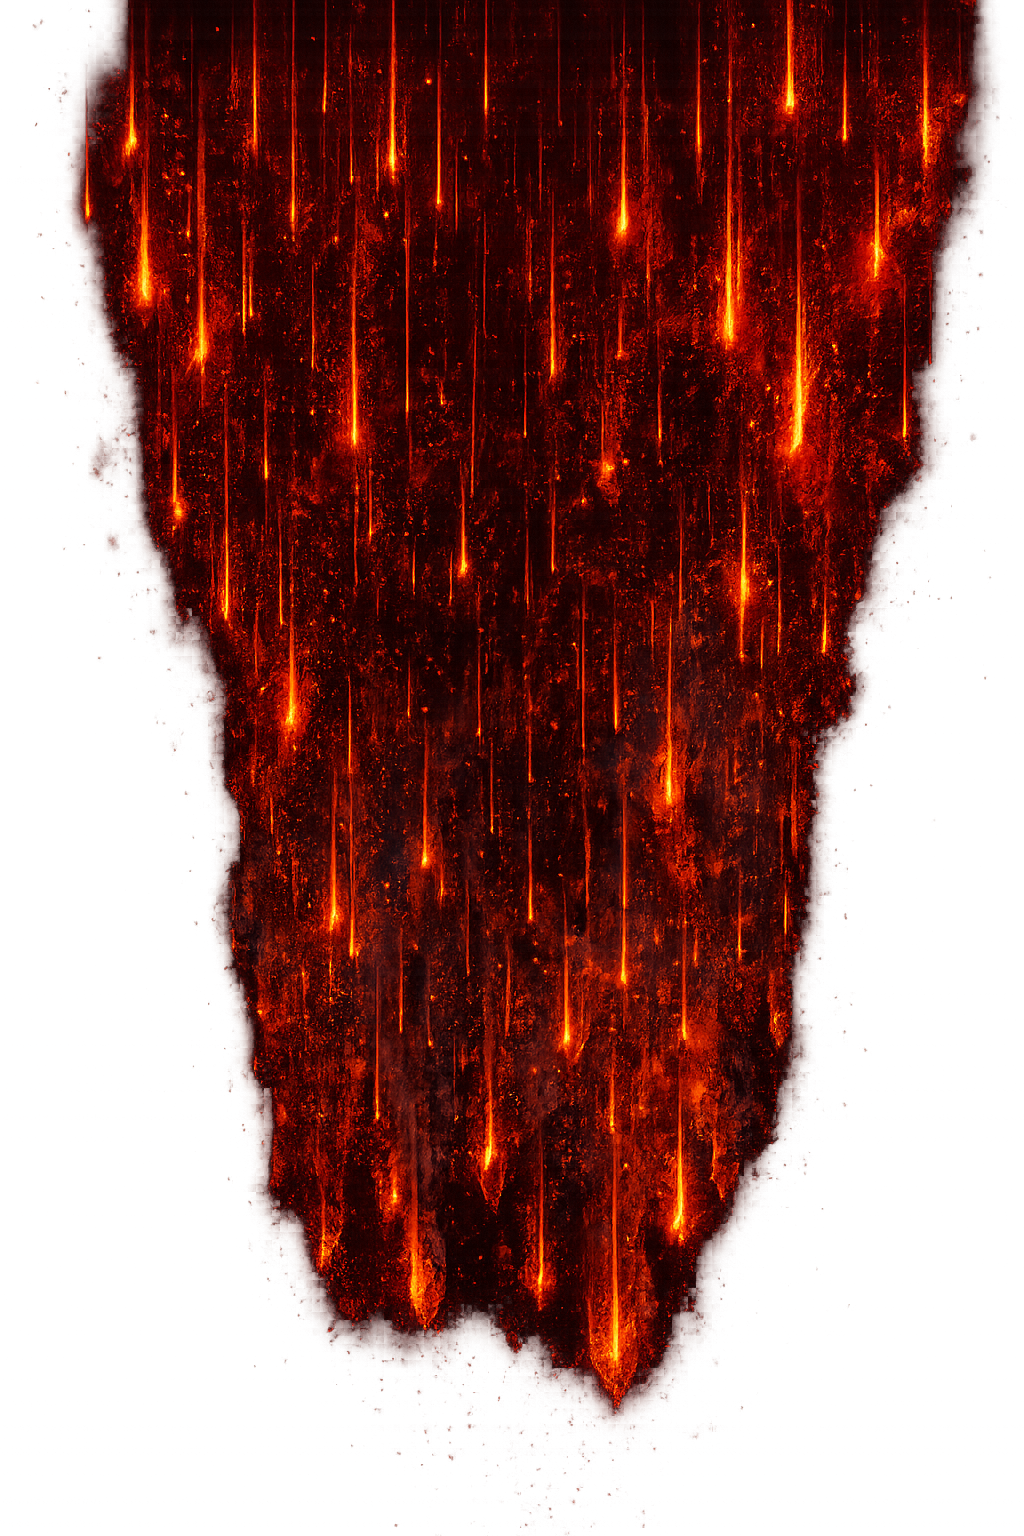
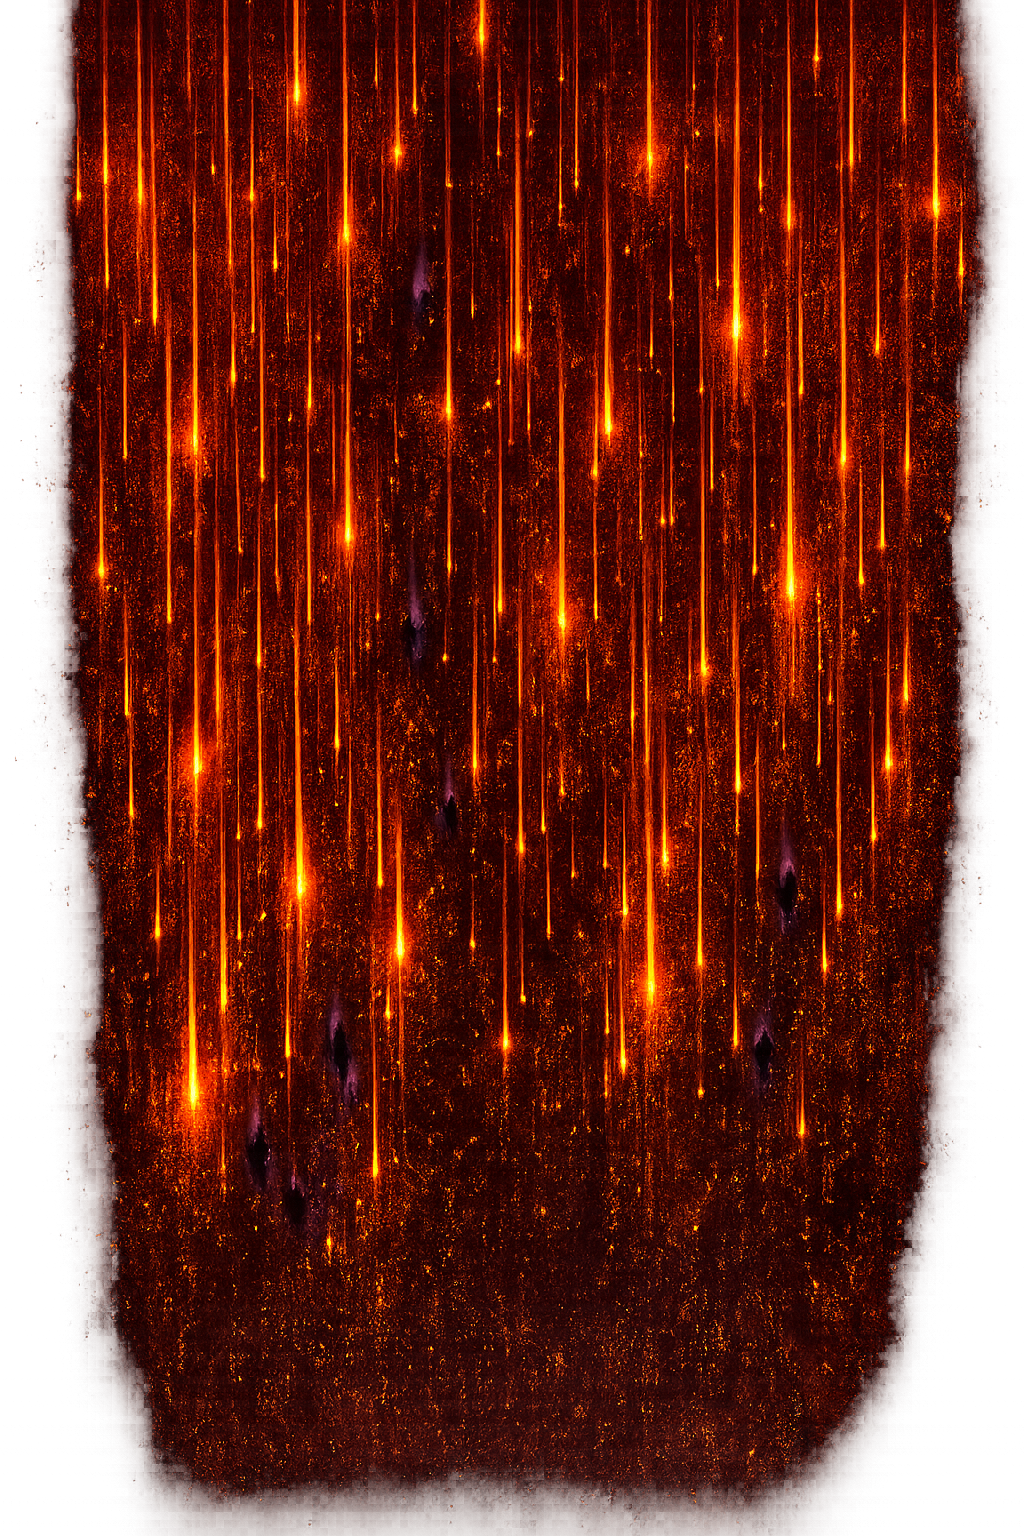
Adjusted background overlay and added to it as well with different visual elements.

diff --git a/project-1/style.css b/project-1/style.css
@@ -17,25 +17,22 @@ img {
   display: block;
 }
 
-
 /* Overlay inspired by https://red-rising.fandom.com/wiki/Iron_Rain */
 /* Created overlay img using Copilot https://copilot.microsoft.com/shares/yxroHjE78bXvJa9m48Xqp */
+/* Gradient behind everything */
 body {
-  background-image: url("images/Copilot_IronRain.png");
-  background-size: auto 80%;
-  background-repeat: no-repeat;
-  background-position: center 5vh;
+  background: 
+    linear-gradient(to bottom, rgba(0,0,0,0.55), rgba(0,0,0,0.6)),
+    url("images/Copilot_IronRain.png") center 5vh / 80% no-repeat,
+    linear-gradient(to bottom, #000 0%, #7a0000 90%);
+  background-attachment: scroll;
+  background-blend-mode: overlay, screen, normal;
+  backdrop-filter: blur(1px) brightness(0.8) contrast(0.85);
   line-height: 1.5;
   min-height: 100vh;
   position: relative;
   font-family: 'Lato', sans-serif;
   color: var(--white);
-  z-index: -2;
-}
-
-/* Gradient behind everything - pseudo element */
-html {
-  background: linear-gradient(180deg, var(--black) 30%, var(--red));
 }
 
 /* Colour palette is inspired by the caste system of The Society within Red Rising
@@ -171,7 +168,7 @@ header .link-github svg {
     background: var(--gold);
     width: 80px;
     min-height: 100vh;
-    z-index: -1;
+    z-index: 1;
   }
 
   header {
